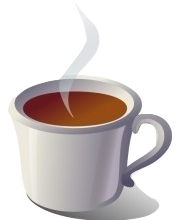
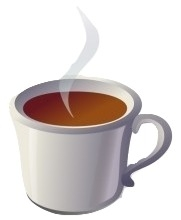
Con't picture edit, no whitebackground which doesn't work, change font-family for h1, ul

diff --git a/index.html b/index.html
@@ -2,11 +2,12 @@
 <html>
 <title>Cups 4 Kids</title>
 <head>Cups 4 Kids</head>
-<div <img src="images/cupofjoe_edit.png" alt="cupofjoe" title="good stuff!"> </div>
+<img src="images/cupofjoe_edit.png" alt="cupofjoe" title="good stuff!">
 <head>
 	<link rel="stylesheet" type="text/css" href="css/style.css">
 	</head>
 	<body>
+		<slogan>
 	<h1>This is the childcare center and barista studio of Eli Klasne.</h1> 
 	<h1>Currently serving locations:</h1>
 		<ul>Palm Harbor</ul>

diff --git a/css/style.css b/css/style.css
@@ -11,13 +11,9 @@ img {
 	display: block;
 	margin-left: auto;
 	margin-right: auto;
+	transform: rotatez(70deg);
 }
-div img {
-    width: 200px;
-    height: 100px;
-    background-color: yellow;
-    /* Rotate div */
-    -ms-transform: rotate(45deg); /* IE 9 */
-    -webkit-transform: rotate(45deg); /* Chrome, Safari, Opera */
-    transform: rotate(45deg);
-}
+ h1, ul{ 
+ 	font-family: Verdana, Charcoal, Sans-serif;
+ 	font-size: 22px;
+ }
